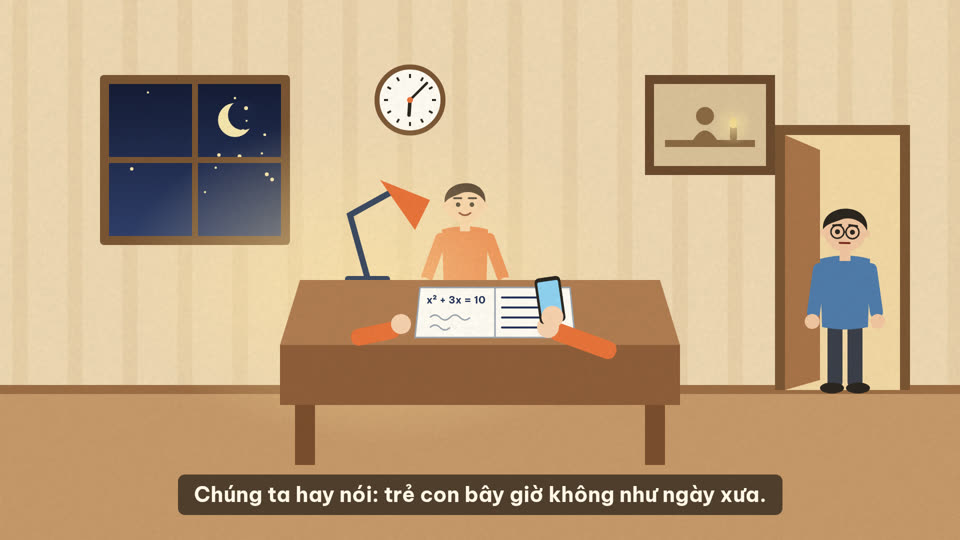
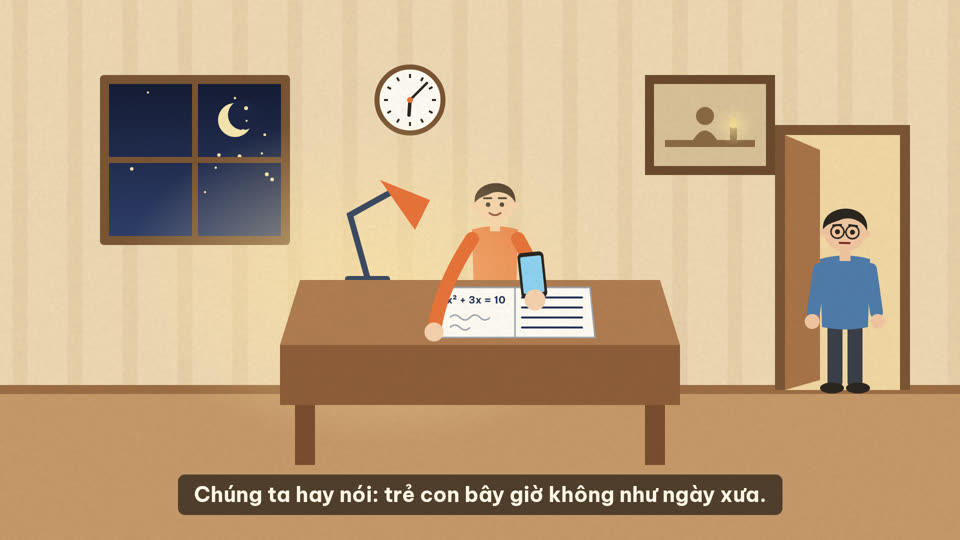
Connect kid's arms to shoulders; shorten final line
Claude-Session: https://claude.ai/code/session_0185Wh3kk8kBtTkAwp3ed5WP

Changed region(s): [[0.3438, 0.4148, 0.6562, 0.6815], [0.4688, 0.3259, 0.5312, 0.3852]]

diff --git a/ky-nang-bien-mat/src/s18.js b/ky-nang-bien-mat/src/s18.js
@@ -36,8 +36,7 @@ function buildRoom(parent) {
   el('path', { d: 'M1570 270 L 1640 300 L 1640 760 L 1570 780 Z', fill: '#A8744A' }, g);
   const people = el('g', {}, g);
   const dad = makeFigure(people, DAD); dad.g.setAttribute('transform', 'translate(1690 780)');
-  const kid = makeFigure(people, KID); kid.g.setAttribute('transform', 'translate(930 700) scale(.92)');
-  pose(kid, { aL: 20, aR: -20 });
+  const kid = makeFigure(people, KID); kid.g.setAttribute('transform', 'translate(990 700) scale(.92)');
   // desk lamp + glow
   const glow = el('ellipse', { cx: 760, cy: 560, rx: 520, ry: 330, fill: radGrad([[0, '#FFE7A8', .65], [1, '#FFE7A8', 0]]) }, g);
   el('rect', { x: 690, y: 552, width: 90, height: 16, rx: 6, fill: '#3C4A63' }, g);
@@ -48,7 +47,7 @@ function buildRoom(parent) {
   el('rect', { x: 560, y: 690, width: 800, height: 120, fill: '#8E5E3A' }, g);
   el('rect', { x: 590, y: 810, width: 40, height: 120, fill: '#7A4E2E' }, g); el('rect', { x: 1290, y: 810, width: 40, height: 120, fill: '#7A4E2E' }, g);
   // notebook
-  const nb = el('g', { transform: 'translate(990 625)' }, g);
+  const nb = el('g', { transform: 'translate(1030 625)' }, g);
   el('path', { d: 'M-150 -50 L 150 -50 L 160 50 L -160 50 Z', fill: '#FFFDF6', stroke: '#9AA5B1', 'stroke-width': 3 }, nb);
   el('line', { x1: 0, y1: -50, x2: 0, y2: 50, stroke: '#9AA5B1', 'stroke-width': 3 }, nb);
   txt(nb, -78, -18, 'x² + 3x = 10', { 'font-size': 20, fill: '#24345C' });
@@ -58,27 +57,34 @@ function buildRoom(parent) {
     nbLines.push(ln);
   }
   const scrib = el('path', { d: 'M-130 10 q 10 -10 20 0 t 20 0 t 20 0 t 20 0 M-130 30 q 10 -10 20 0 t 20 0', fill: 'none', stroke: '#9AA5B1', 'stroke-width': 3 }, nb);
-  // kid's hands on desk + pencil + phone
-  const handL = el('g', {}, g);
-  el('rect', { x: 700, y: 640, width: 100, height: 34, rx: 16, fill: KID.shirt, transform: 'rotate(-12 800 657)' }, handL);
-  el('circle', { cx: 802, cy: 648, r: 20, fill: KID.skin }, handL);
+  // kid's arms: one continuous sleeve from each shoulder down to the hand on the desk
+  show(kid.armL, false); show(kid.armR, false);
+  const sleeve = { fill: 'none', stroke: KID.shirt, 'stroke-width': 28, 'stroke-linecap': 'round' };
+  const armL = el('path', sleeve, g), armR = el('path', sleeve, g);
+  const handL = el('circle', { r: 19, fill: KID.skin }, g);
   const handR = el('g', {}, g);
-  el('rect', { x: 1100, y: 640, width: 140, height: 36, rx: 16, fill: KID.shirt, transform: 'rotate(20 1100 658)' }, handR);
   const pencil = el('g', {}, handR);
-  el('line', { x1: 1092, y1: 652, x2: 1050, y2: 590, stroke: '#F2C14E', 'stroke-width': 10, 'stroke-linecap': 'round' }, pencil);
-  el('line', { x1: 1050, y1: 590, x2: 1043, y2: 580, stroke: '#2B2620', 'stroke-width': 6, 'stroke-linecap': 'round' }, pencil);
-  el('circle', { cx: 1096, cy: 654, r: 22, fill: KID.skin }, handR);
-  const phone = el('g', {}, g);
-  el('rect', { x: -26, y: -46, width: 52, height: 92, rx: 9, fill: '#2B2620' }, phone);
-  const screen = el('rect', { x: -21, y: -38, width: 42, height: 74, rx: 4, fill: '#8FD3F4' }, phone);
-  el('circle', { cx: 0, cy: 34, r: 22, fill: KID.skin }, phone);
+  el('line', { x1: 0, y1: 0, x2: -36, y2: -62, stroke: '#F2C14E', 'stroke-width': 10, 'stroke-linecap': 'round' }, pencil);
+  el('line', { x1: -36, y1: -62, x2: -42, y2: -72, stroke: '#2B2620', 'stroke-width': 6, 'stroke-linecap': 'round' }, pencil);
+  const phone = el('g', {}, handR);
+  el('rect', { x: -26, y: -96, width: 52, height: 92, rx: 9, fill: '#2B2620' }, phone);
+  const screen = el('rect', { x: -21, y: -88, width: 42, height: 74, rx: 4, fill: '#8FD3F4' }, phone);
+  el('circle', { r: 21, fill: KID.skin }, handR);
+  // place hands; arms follow from the shoulders (kid at x 990, scale .92 -> shoulders at 990±46, y 472)
+  function arms(lx, ly, rx, ry, rr) {
+    armL.setAttribute('d', `M944 478 Q 880 575 ${lx} ${ly}`);
+    armR.setAttribute('d', `M1036 478 Q 1092 575 ${rx} ${ry}`);
+    handL.setAttribute('cx', lx); handL.setAttribute('cy', ly);
+    tr(handR, rx, ry, rr || 0);
+  }
+  arms(868, 664, 1085, 632);
   // timer badge
   const timer = el('g', {}, g);
   el('rect', { x: -95, y: -40, width: 190, height: 80, rx: 40, fill: '#2B2620' }, timer);
   const timerT = txt(timer, 18, 16, '0:00', { 'font-size': 44, fill: '#FFFDF6', 'font-weight': 800 });
   el('circle', { cx: -55, cy: 0, r: 20, fill: 'none', stroke: '#F2C14E', 'stroke-width': 5 }, timer);
   const timerHand = el('line', { x1: -55, y1: 0, x2: -55, y2: -14, stroke: '#F2C14E', 'stroke-width': 4, 'stroke-linecap': 'round' }, timer);
-  return { g, hr, mn, dad, kid, people, glow, nbLines, scrib, handR, pencil, phone, screen, timer, timerT, timerHand };
+  return { g, hr, mn, dad, kid, people, glow, nbLines, scrib, arms, pencil, phone, screen, timer, timerT, timerHand };
 }
 
 // ---------- Scene 1 ----------
@@ -95,10 +101,9 @@ function buildRoom(parent) {
     // pencil tapping, then phone
     const usingPhone = t2 > 0;
     show(R.pencil, !usingPhone);
-    R.handR.setAttribute('transform', usingPhone ? 'translate(0 0)' : `rotate(${Math.max(0, Math.sin(t * 7)) * -4} 1096 654)`);
     show(R.phone, usingPhone);
-    const lift = easeOut(seg(t2, 0, .4));
-    tr(R.phone, 1100, lerp(660, 600, lift), lerp(10, -8, lift));
+    const lift = easeOut(seg(t2, 0, .4)), tap = usingPhone ? 0 : Math.max(0, Math.sin(t * 7)) * 8;
+    R.arms(868, 664, lerp(1085, 1070, lift), lerp(632 - tap, 600, lift), lerp(0, -6, lift));
     R.screen.setAttribute('fill', Math.floor(t * 6) % 2 && t2 < 2.4 ? '#BDE7FA' : '#8FD3F4');
     R.nbLines.forEach((ln, i) => ln.setAttribute('x2', 14 + 120 * seg(t2, .3 + i * .4, .7 + i * .4)));
     show(R.timer, t2 > -.1 && t3 < .3); op(R.timer, seg(t2, -.1, .2));
@@ -129,9 +134,7 @@ function buildRoom(parent) {
   const g = el('g', {}, svg); const world = el('g', {}, g);
   const R = buildRoom(world);
   show(R.timer, false); show(R.phone, false); R.nbLines.forEach(l => l.setAttribute('x2', 134));
-  // move the kid a little left so dad fits beside
-  R.kid.g.setAttribute('transform', 'translate(925 700) scale(.92)');
-  const chair = el('rect', { x: 1110, y: 520, width: 150, height: 40, rx: 10, fill: '#8E5E3A' }, world);
+    const chair = el('rect', { x: 1110, y: 520, width: 150, height: 40, rx: 10, fill: '#8E5E3A' }, world);
   R.g.insertBefore(chair, R.people);
   const dim = el('rect', { x: 0, y: 0, width: 1920, height: 1080, fill: '#1A1612' }, g);
   const card = el('g', {}, g);
@@ -141,7 +144,7 @@ function buildRoom(parent) {
   SC[8] = ({ g, render(t, lt) {
     const t25 = L(t, 25), e27 = LE(t, 27);
     const mins = t * .5; R.mn.setAttribute('transform', `rotate(${mins * 6})`); R.hr.setAttribute('transform', `rotate(${120 + mins * .5})`);
-    show(R.pencil, true); R.handR.setAttribute('transform', `rotate(${Math.max(0, Math.sin(t * 2)) * -3} 1096 654)`);
+    show(R.pencil, true); R.arms(868, 664, 1085 + Math.sin(t * 1.5) * 10, 632 - Math.max(0, Math.sin(t * 6)) * 4 * (1 - seg(lt, 3, 4)));
     // dad walks in from the door, sits beside the kid
     const w = easeInOut(seg(lt, .3, 3.0)), sit = easeInOut(seg(lt, 3.0, 3.8));
     const x = lerp(1690, 1190, w);

diff --git a/ky-nang-bien-mat/src/timeline.js b/ky-nang-bien-mat/src/timeline.js
@@ -1,3 +1,3 @@
-const LINES = [{"s": 2.0, "e": 7.22, "text": "Ngày xưa, một bài toán khó, mình có thể ngồi với nó cả buổi tối."}, {"s": 8.27, "e": 11.86, "text": "Còn bây giờ... hai phút. Xong."}, {"s": 13.11, "e": 17.06, "text": "Chúng ta hay nói: trẻ con bây giờ không như ngày xưa."}, {"s": 18.11, "e": 20.79, "text": "Nhưng... ngày xưa là bao giờ?"}, {"s": 24.04, "e": 29.77, "text": "Mấy vạn năm trước, tổ tiên ta đọc được dấu chân thú, biết gió đang thổi về đâu,"}, {"s": 30.42, "e": 34.49, "text": "biết loại quả nào ăn được, loại nào có thể giết người."}, {"s": 35.74, "e": 41.97, "text": "Đó từng là kiến thức sống còn. Hôm nay, mấy ai trong chúng ta còn biết?"}, {"s": 45.22, "e": 52.65, "text": "Rồi đến thời người đàn ông phải biết cưỡi ngựa, phóng lao. Không biết, là không bảo vệ được gia đình."}, {"s": 54.9, "e": 58.75, "text": "Vậy mà dần dần... ngựa chỉ còn chạy trong rạp xiếc."}, {"s": 62.0, "e": 67.87, "text": "Ông bà ta nhìn mây đoán mưa. Biết giống lúa nào hợp chân ruộng nào."}, {"s": 68.72, "e": 75.48, "text": "Sâu nào hại lá, sâu nào hại gốc. Con trâu nào khoẻ, con gà nào đẻ tốt."}, {"s": 76.93, "e": 84.41, "text": "Còn chúng ta, những người đang lo cho con... có phân biệt được cây cam với cây bưởi? Cá sông với cá hồ?"}, {"s": 87.66, "e": 93.48, "text": "Hơn hai nghìn năm trước, Socrates từng lo rằng chữ viết sẽ làm con người quên cách ghi nhớ."}, {"s": 94.53, "e": 100.33, "text": "Thời nào cũng vậy. Thế hệ trước luôn nhìn thế hệ sau với một chút lo âu."}, {"s": 103.58, "e": 108.17, "text": "Vậy toán, văn, tin học... có phải là con ngựa tiếp theo?"}, {"s": 109.62, "e": 112.11, "text": "Nhưng có một điều hơi khác."}, {"s": 113.16, "e": 118.79, "text": "Cưỡi ngựa là để đi xa. Khi có xe, ta chẳng mất gì."}, {"s": 119.64, "e": 125.27, "text": "Nhưng ngồi hàng giờ với một bài toán... có lẽ chưa bao giờ chỉ để tìm ra đáp số."}, {"s": 126.72, "e": 129.73, "text": "Không ai có thể tập thể dục hộ mình."}, {"s": 131.18, "e": 135.54, "text": "Nhưng... nếu chẳng còn ai cần nâng tạ nữa, thì sao?"}, {"s": 138.79, "e": 148.79, "text": "Hay chính chúng ta cũng đang nhầm? Biết đâu, sự kiên nhẫn ấy rồi sẽ được rèn ở một nơi khác, theo một cách khác, mà thế hệ mình chưa nhìn thấy."}, {"s": 150.24, "e": 153.09, "text": "Kỹ năng nào nên để nó ra đi?"}, {"s": 154.14, "e": 156.77, "text": "Kỹ năng nào cần giữ lại?"}, {"s": 157.82, "e": 160.69, "text": "Chuẩn bị... hay thuận theo thời thế?"}, {"s": 163.94, "e": 168.73, "text": "Có lẽ câu hỏi không phải là: con có giỏi như mình ngày xưa không..."}, {"s": 169.38, "e": 173.09, "text": "mà là: con sẽ cần gì cho ngày mai."}, {"s": 174.54, "e": 179.97, "text": "Và câu trả lời ấy... có khi chúng ta cũng phải học lại, cùng con."}];
-const SCENES = [{"s": 0, "e": 21.04}, {"s": 21.04, "e": 42.22}, {"s": 42.22, "e": 59.0}, {"s": 59.0, "e": 84.66}, {"s": 84.66, "e": 100.58}, {"s": 100.58, "e": 135.79}, {"s": 135.79, "e": 160.94}, {"s": 160.94, "e": 185.22}];
-window.DURATION = 185.22;
+const LINES = [{"s": 2.0, "e": 7.22, "text": "Ngày xưa, một bài toán khó, mình có thể ngồi với nó cả buổi tối."}, {"s": 8.27, "e": 11.86, "text": "Còn bây giờ... hai phút. Xong."}, {"s": 13.11, "e": 17.06, "text": "Chúng ta hay nói: trẻ con bây giờ không như ngày xưa."}, {"s": 18.11, "e": 20.79, "text": "Nhưng... ngày xưa là bao giờ?"}, {"s": 24.04, "e": 29.77, "text": "Mấy vạn năm trước, tổ tiên ta đọc được dấu chân thú, biết gió đang thổi về đâu,"}, {"s": 30.42, "e": 34.49, "text": "biết loại quả nào ăn được, loại nào có thể giết người."}, {"s": 35.74, "e": 41.97, "text": "Đó từng là kiến thức sống còn. Hôm nay, mấy ai trong chúng ta còn biết?"}, {"s": 45.22, "e": 52.65, "text": "Rồi đến thời người đàn ông phải biết cưỡi ngựa, phóng lao. Không biết, là không bảo vệ được gia đình."}, {"s": 54.9, "e": 58.75, "text": "Vậy mà dần dần... ngựa chỉ còn chạy trong rạp xiếc."}, {"s": 62.0, "e": 67.87, "text": "Ông bà ta nhìn mây đoán mưa. Biết giống lúa nào hợp chân ruộng nào."}, {"s": 68.72, "e": 75.48, "text": "Sâu nào hại lá, sâu nào hại gốc. Con trâu nào khoẻ, con gà nào đẻ tốt."}, {"s": 76.93, "e": 84.41, "text": "Còn chúng ta, những người đang lo cho con... có phân biệt được cây cam với cây bưởi? Cá sông với cá hồ?"}, {"s": 87.66, "e": 93.48, "text": "Hơn hai nghìn năm trước, Socrates từng lo rằng chữ viết sẽ làm con người quên cách ghi nhớ."}, {"s": 94.53, "e": 100.33, "text": "Thời nào cũng vậy. Thế hệ trước luôn nhìn thế hệ sau với một chút lo âu."}, {"s": 103.58, "e": 108.17, "text": "Vậy toán, văn, tin học... có phải là con ngựa tiếp theo?"}, {"s": 109.62, "e": 112.11, "text": "Nhưng có một điều hơi khác."}, {"s": 113.16, "e": 118.79, "text": "Cưỡi ngựa là để đi xa. Khi có xe, ta chẳng mất gì."}, {"s": 119.64, "e": 125.27, "text": "Nhưng ngồi hàng giờ với một bài toán... có lẽ chưa bao giờ chỉ để tìm ra đáp số."}, {"s": 126.72, "e": 129.73, "text": "Không ai có thể tập thể dục hộ mình."}, {"s": 131.18, "e": 135.54, "text": "Nhưng... nếu chẳng còn ai cần nâng tạ nữa, thì sao?"}, {"s": 138.79, "e": 148.79, "text": "Hay chính chúng ta cũng đang nhầm? Biết đâu, sự kiên nhẫn ấy rồi sẽ được rèn ở một nơi khác, theo một cách khác, mà thế hệ mình chưa nhìn thấy."}, {"s": 150.24, "e": 153.09, "text": "Kỹ năng nào nên để nó ra đi?"}, {"s": 154.14, "e": 156.77, "text": "Kỹ năng nào cần giữ lại?"}, {"s": 157.82, "e": 160.69, "text": "Chuẩn bị... hay thuận theo thời thế?"}, {"s": 163.94, "e": 168.73, "text": "Có lẽ câu hỏi không phải là: con có giỏi như mình ngày xưa không..."}, {"s": 169.38, "e": 173.09, "text": "mà là: con sẽ cần gì cho ngày mai."}, {"s": 174.54, "e": 179.09, "text": "Và câu trả lời ấy... có khi chúng ta cũng phải học lại..."}];
+const SCENES = [{"s": 0, "e": 21.04}, {"s": 21.04, "e": 42.22}, {"s": 42.22, "e": 59.0}, {"s": 59.0, "e": 84.66}, {"s": 84.66, "e": 100.58}, {"s": 100.58, "e": 135.79}, {"s": 135.79, "e": 160.94}, {"s": 160.94, "e": 184.34}];
+window.DURATION = 184.34;

diff --git a/ky-nang-bien-mat/kich-ban.md b/ky-nang-bien-mat/kich-ban.md
@@ -3,7 +3,7 @@
 *Một suy ngẫm cho cha mẹ về việc học của con trong thời AI*
 
 - **Khán giả:** Phụ huynh 30–50 tuổi
-- **Thời lượng:** 3:05 (lời thoại khoảng 400 từ, đọc chậm, có khoảng lặng)
+- **Thời lượng:** 3:04 (lời thoại khoảng 400 từ, đọc chậm, có khoảng lặng)
 - **Phong cách:** Hoạt hình 2D minh hoạ, nét vẽ tay ấm, tông giấy cũ; mỗi thời đại một bảng màu riêng
 - **Giọng đọc:** Trầm, chậm, như đang tâm sự, không giảng giải
 - **Nhạc nền:** Piano/guitar mộc, nhẹ; chỉ thêm nhạc cụ dân gian ở cảnh nông nghiệp; **im lặng hoàn toàn** ở câu hỏi cuối
@@ -82,12 +82,12 @@
 
 ---
 
-## CẢNH 8 — TRỞ LẠI PHÒNG KHÁCH (2:41 – 3:05)
+## CẢNH 8 — TRỞ LẠI PHÒNG KHÁCH (2:41 – 3:04)
 
 | Hình ảnh | Lời thoại (VO) | Âm thanh |
 |---|---|---|
 | Phòng khách lúc đầu. Lần này người cha/mẹ không đứng ở cửa nữa, mà kéo ghế ngồi xuống cạnh con. Hai người cùng nhìn vào một trang vở. | "Có lẽ câu hỏi không phải là *con có giỏi như mình ngày xưa không*… mà là *con sẽ cần gì cho ngày mai*." | **Im lặng hoàn toàn.** |
-| Tối dần. Chữ trên nền tối: **"Còn bạn, bạn nghĩ sao?"** | "Và câu trả lời ấy… có khi chúng ta cũng phải học lại, cùng con." | Một nốt piano duy nhất. |
+| Tối dần. Chữ trên nền tối: **"Còn bạn, bạn nghĩ sao?"** | "Và câu trả lời ấy… có khi chúng ta cũng phải học lại…" | Một nốt piano duy nhất. |
 
 ---
 

diff --git a/ky-nang-bien-mat/loi-thoai-thu-am.md b/ky-nang-bien-mat/loi-thoai-thu-am.md
@@ -1,6 +1,6 @@
 # LỜI THOẠI THU ÂM: "KỸ NĂNG NÀO RỒI CŨNG RA ĐI?"
 
-- **Tổng lời thoại:** khoảng 400 từ, 27 câu. Giọng đọc mất khoảng 2:28. Cộng các khoảng lặng và đoạn chỉ có hình, tổng video là **3:05**.
+- **Tổng lời thoại:** khoảng 400 từ, 27 câu. Giọng đọc mất khoảng 2:28. Cộng các khoảng lặng và đoạn chỉ có hình, tổng video là **3:04**.
 - **Cách đọc chung:** trầm, chậm, như đang tâm sự với một phụ huynh khác. Không giảng giải, không trách móc. Chậm dần từ Cảnh 6, chậm nhất ở Cảnh 7–8.
 - **Bản dựng thử** dùng giọng máy `vi-VN-NamMinhNeural` (edge-tts). Khi thu giọng người thật, giữ các mốc thời gian bên dưới để khớp hình.
 
@@ -149,7 +149,7 @@
 
 ---
 
-## CẢNH 8: TRỞ LẠI PHÒNG KHÁCH (2:41 – 3:05)
+## CẢNH 8: TRỞ LẠI PHÒNG KHÁCH (2:41 – 3:04)
 
 `[nghỉ 3s]`: người cha bước vào, ngồi xuống cạnh con
 
@@ -162,6 +162,6 @@
 `[nghỉ 1s]`
 
 > `@2:55` *(nhỏ dần, gần như thì thầm)*
-> Và câu trả lời ấy… / có khi chúng ta cũng phải **học lại**, // cùng con.
+> Và câu trả lời ấy… / có khi chúng ta cũng phải **học lại**…
 
 `[nghỉ 5s]`: màn hình tối, chữ "Còn bạn, bạn nghĩ sao?", một nốt piano

diff --git a/ky-nang-bien-mat/storyboard.md b/ky-nang-bien-mat/storyboard.md
@@ -1,6 +1,6 @@
 # STORYBOARD: "KỸ NĂNG NÀO RỒI CŨNG RA ĐI?"
 
-- **Khung hình:** 1920×1080, 30 fps, 3:05. Ảnh dưới đây chụp trực tiếp từ bản dựng (`src/main.html`).
+- **Khung hình:** 1920×1080, 30 fps, 3:04. Ảnh dưới đây chụp trực tiếp từ bản dựng (`src/main.html`).
 - **Mô-típ:** mỗi thời đại mở đầu bằng một **vòng tròn cận cảnh bàn tay** (dấu chân thú → dây cương → nắm thóc → bút chì → điện thoại), rồi vòng tròn nở ra để vào cảnh rộng.
 - **Bảng màu:** phòng khách vàng ấm · săn bắt nâu đất · ngựa đỏ son · lúa nước xanh lá · Hy Lạp trắng đá · hiện tại kem nhạt · câu hỏi nâu tối.
 

diff --git a/ky-nang-bien-mat/README.md b/ky-nang-bien-mat/README.md
@@ -1,6 +1,6 @@
 # Video "Kỹ năng nào rồi cũng ra đi?"
 
-Video hoạt hình 3:05 cho phụ huynh 30–50 tuổi, kết thúc để mở.
+Video hoạt hình 3:04 cho phụ huynh 30–50 tuổi, kết thúc để mở.
 
 | File | Nội dung |
 |---|---|
